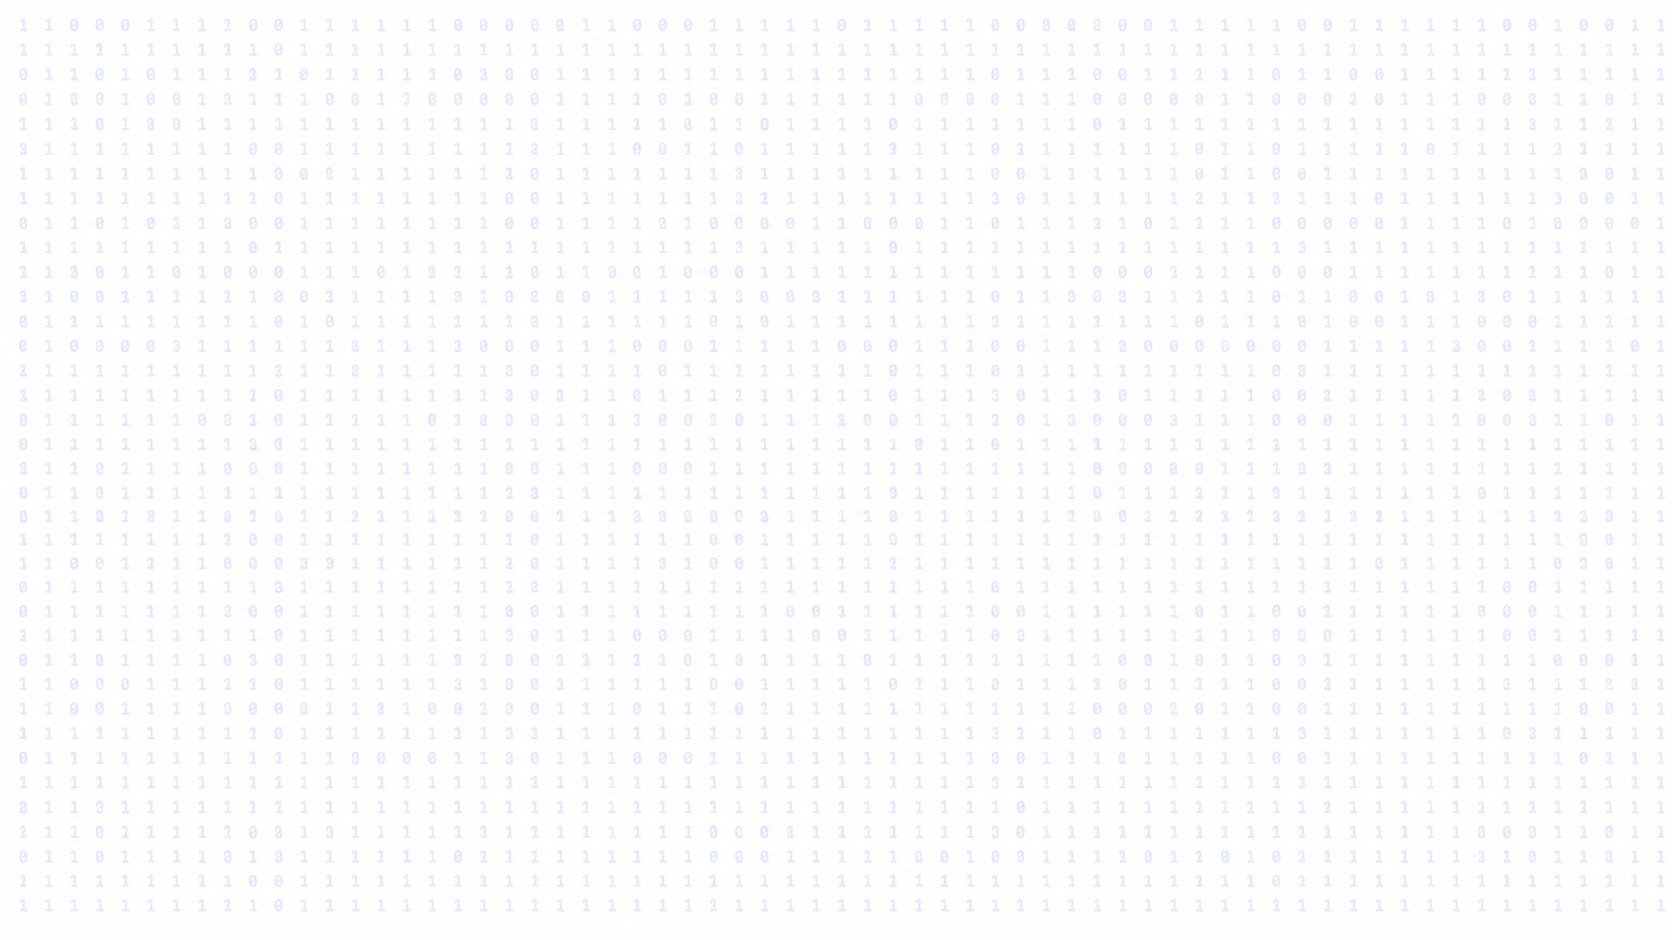
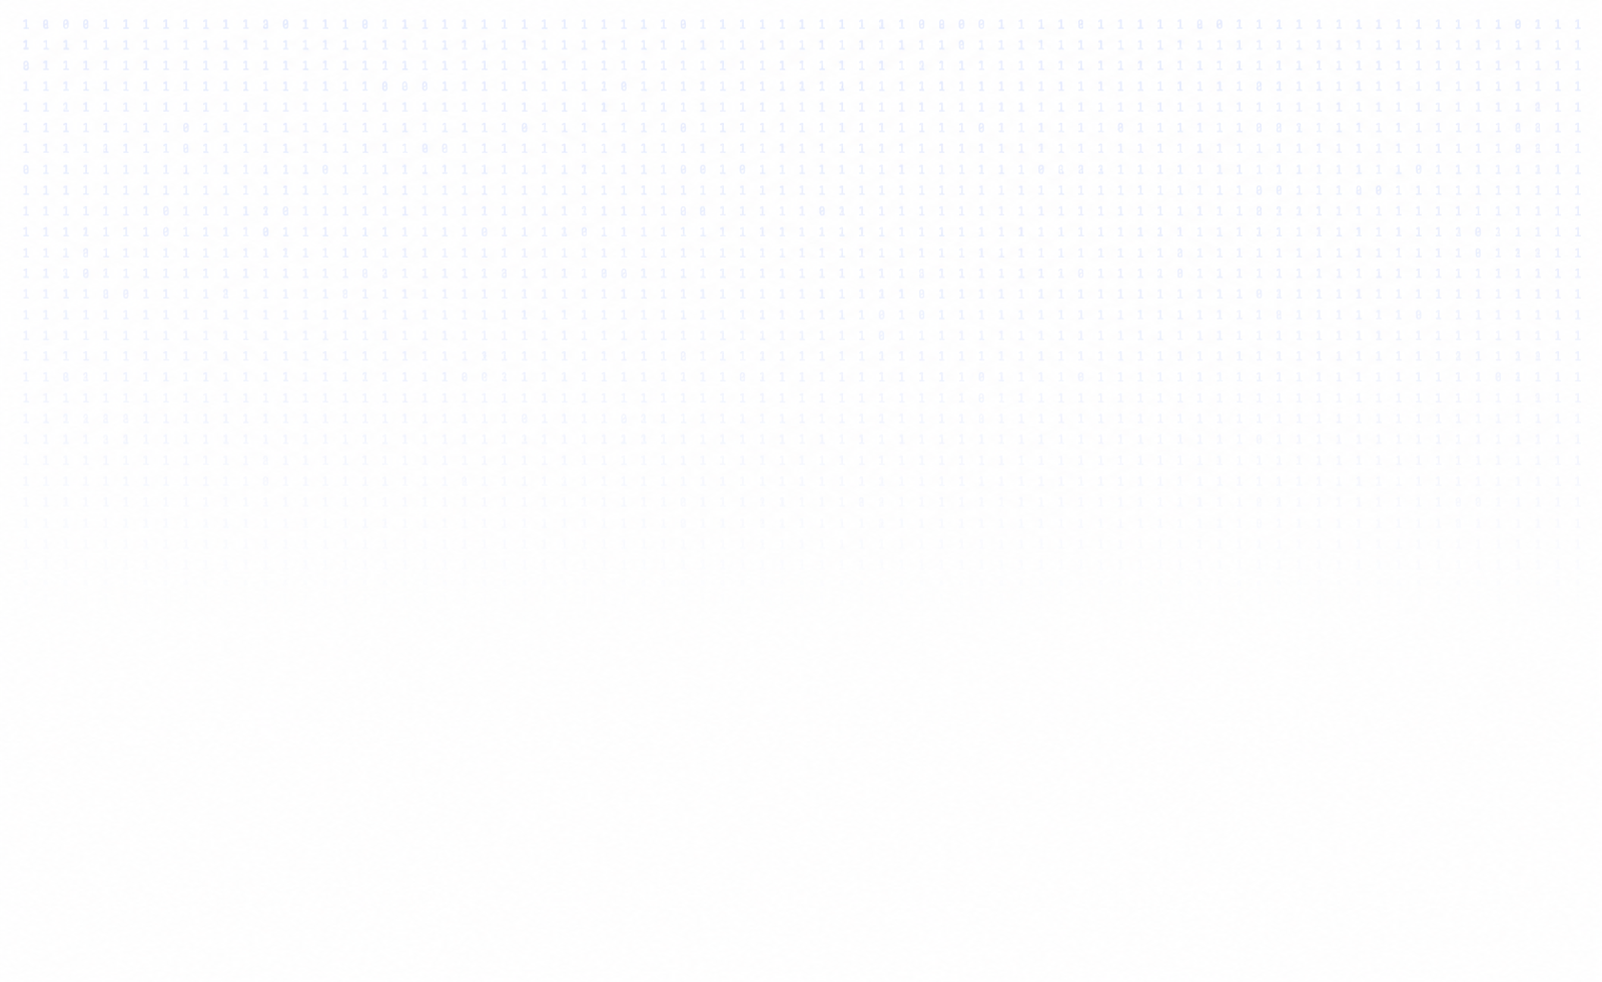
main section done

diff --git a/style.css b/style.css
@@ -35,7 +35,10 @@ nav {
     background: #0d1014;
     font-size: 16px;
     position: fixed;
+    top: 0;
+    left: 0;
     border-bottom: 1px solid #2b2f38;
+    z-index: 9999;
 }
 
 .nav-links {
@@ -181,7 +184,13 @@ nav {
 .down-theme-search i {
     color: #d4d4d4;
     font-size: 20px;
-    margin: 5px;
+    /* margin: 5px; */
+    padding: 6px;
+    border-radius: 4px;
+}
+
+.down-theme-search i:hover {
+    background-color: #414141;
 }
 
 .down-theme-search button {
@@ -199,10 +208,87 @@ nav {
 /************************************** MAIN **************************************/
 
 main {
+    position: relative;
+    display: flex;
+    align-items: center;
+    justify-content: center;
     width: 100vw;
-    height: 800px;
+    height: 1000px;
     background-image: url(./assets/main-bg-dark.png);
     background-repeat: no-repeat;
     background-size: cover;
     /* background-color: red; */
+    margin-top: 70px;
+    color: #fff;
 }
+
+main h2 {
+    position: absolute;
+    top: 40px;
+    font-size: 60px;
+}
+
+main h3 {
+    position: absolute;
+    top: 130px;
+    font-size: 28px;
+}
+
+.download-container {
+    position: absolute;
+    top: 200px;
+    display: flex;
+    align-items: center;
+    justify-content: center;
+    flex-direction: column;
+    background-color: #0d1014;
+    padding: 18px;
+    border-radius: 12px;
+    gap: 18px;
+}
+
+.download-container button {
+    display: flex;
+    justify-content: center;
+    align-items: center;
+    padding: 16px 36px;
+    border: none;
+    gap: 10px;
+    font-size: 20px;
+    border-radius: 8px;
+    outline: 3px solid transparent;
+    outline-offset: 0px;
+    transition: all 0.3s ease;
+}
+
+.download-container button:hover {
+    outline: 2px solid #fff;
+    outline-offset: 5px;
+}
+
+.download-container button i {
+    font-size: 24px;
+}
+
+.download-container p {
+    color: #fff;
+    font-size: 13px;
+}
+
+.download-container p a {
+    color: #fff;
+}
+
+.download-container p:nth-child(3) {
+    font-size: 11px;
+}
+
+main img {
+    position: absolute;
+    top: 390px;
+    height: 564px;
+    width: 856px;
+    border-radius: 10px;
+}
+
+/************************************** AGENTS **************************************/

diff --git a/index.html b/index.html
@@ -9,6 +9,9 @@
     <link rel="shortcut icon" href="./assets/icon.ico" type="image/x-icon">
     <link rel="stylesheet" type="text/css"
         href="https://cdn.jsdelivr.net/npm/@phosphor-icons/web@2.1.1/src/regular/style.css" />
+    <link rel="stylesheet" href="https://cdnjs.cloudflare.com/ajax/libs/font-awesome/7.0.1/css/all.min.css"
+        integrity="sha512-2SwdPD6INVrV/lHTZbO2nodKhrnDdJK9/kg2XD1r9uGqPo1cUbujc+IYdlYdEErWNu69gVcYgdxlmVmzTWnetw=="
+        crossorigin="anonymous" referrerpolicy="no-referrer" />
 </head>
 
 <body>
@@ -34,18 +37,17 @@
                 </a>
             </li>
             <li class="nav-link drop-link">
-                <a href="#">Features<span class="dropdown-icon">▾</span>
-                </a>
+                <a href="#">Features<span class="dropdown-icon">▾</span></a>
                 <ul class="drop-down">
-                    <li>Agents</li>
+                    <li><a href="#">Agents</a></li>
                 </ul>
             </li>
             <li class="nav-link drop-link">
                 <a href="#">Docs<span class="material-icons dropdown-icon">▾</span>
                 </a>
                 <ul class="drop-down">
-                    <li>Documentation</li>
-                    <li>API</li>
+                    <li><a href="#">Documentation</a></li>
+                    <li><a href="#">API</a></li>
                 </ul>
             </li>
             <li class="nav-link">
@@ -77,7 +79,23 @@
         </div>
     </nav>
 
-    <main></main>
+    <main>
+        <h2>The open source AI code editor</h2>
+        <h3>Your home for multi agent developement</h3>
+        <div class="download-container">
+            <button>
+                <i class="fa-brands fa-microsoft"></i>
+                Download for Windows
+            </button>
+            <p><a href="https://vscode.dev/" target="_blank">Web</a>, <a href="https://code.visualstudio.com/insiders"
+                    target="_blank">Insider edition</a>, or <a href="https://code.visualstudio.com/Download"
+                    target="_blank">other platforms</a></p>
+            <p>By using VS Code, you agree to its <a href="https://code.visualstudio.com/license"
+                    target="_blank">licence</a> and <a href="https://www.microsoft.com/en-us/privacy/privacystatement"
+                    target="_blank">privacy statement</a>.</p>
+        </div>
+        <img src="./assets/main-img.png">
+    </main>
 </body>
 
 </html>